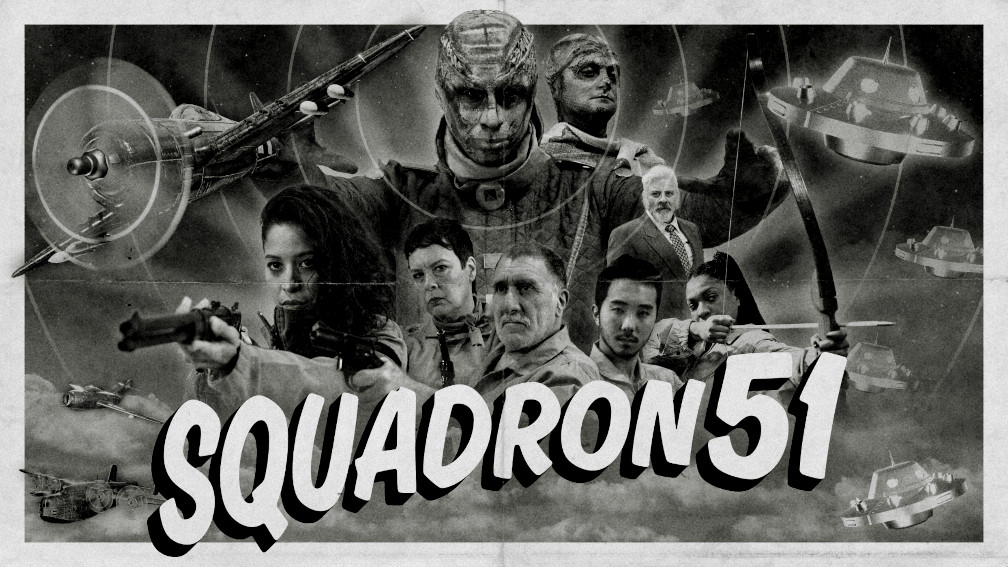
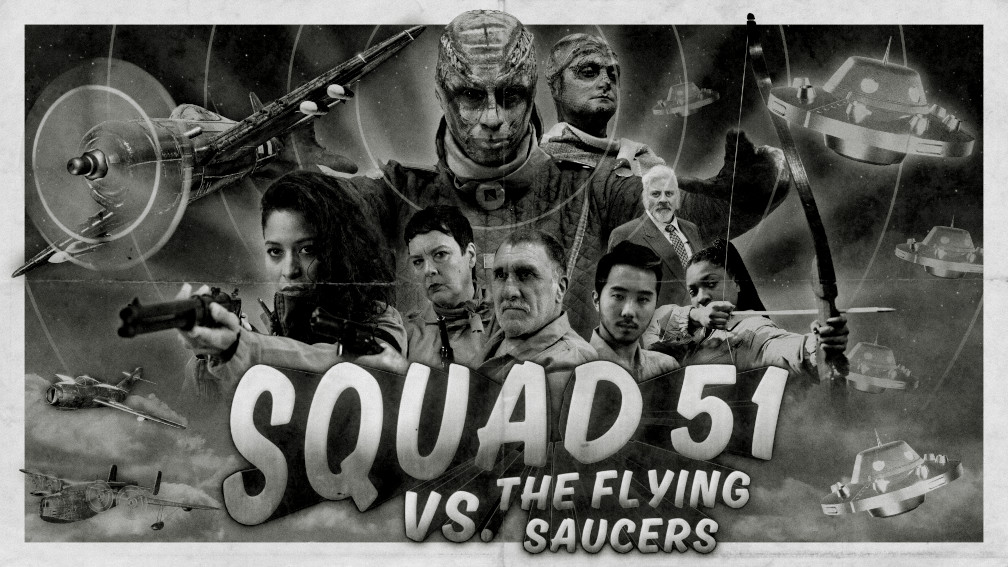
Updated game title.

Changed region(s): [[0.0308, 0.03, 0.9841, 0.9894]]

diff --git a/index-i18n.js b/index-i18n.js
@@ -3,23 +3,23 @@ $(function() {
 	{
 		return {
 			strings: {
-				aboutLoomiartsText:"Loomiarts é um estúdio de desenvolvimento de jogos. Em parceria com a Fehorama Filmes, estamos desenvolvendo o nosso primeiro projeto: o ESQUADRÃO 51, um shoot'em up com estética de filmes de ficção científica dos anos 50 que será publicado em breve pela WhisperGames e Assemble Entertainment.",
-				squadron51Title:"ESQUADRÃO 51",
+				aboutLoomiartsText:"Loomiarts é um estúdio de desenvolvimento de jogos. Em parceria com a Fehorama Filmes, estamos desenvolvendo o nosso primeiro projeto: o ESQUADRÃO 51 CONTRA DOS DISCOS VOADORES, um shoot'em up com estética de filmes de ficção científica dos anos 50 que será publicado em breve pela WhisperGames e Assemble Entertainment.",
+				squadron51Title:"ESQUADRÃO 51 CONTRA DOS DISCOS VOADORES",
 				squadron51ComingSoon:"Em breve",
-				squadron51Text:"Esquadrão 51 é um shoot'em up para PC e consoles com estética de filmes de ficção científica dos anos 50.\n\nDesenvolvido por Loomiarts e Fehorama Filmes e publicado por WhisperGames e Assemble Entertainment.\n\nEm breve para PC, Xbox One, PlayStation 4 e Nintendo Switch.",
+				squadron51Text:"Esquadrão 51 Contra dos Discos Voadores é um shoot'em up para PC e consoles com estética de filmes de ficção científica dos anos 50.\n\nDesenvolvido por Loomiarts e Fehorama Filmes e publicado por WhisperGames e Assemble Entertainment.\n\nEm breve para PC, Xbox One, PlayStation 4 e Nintendo Switch.",
 				contactHeadlineText:"CONTATO",
 				contactEmailText:"Para entrar em contato com a Loomiarts, envie um e-mail para:",
 				contactEmail:"contato@loomiarts.com",
-				downloadPresskitText:"Clique no botão abaixo para acessar o press kit do jogo Esquadrão 51:",
+				downloadPresskitText:"Clique no botão abaixo para acessar o press kit do jogo Esquadrão 51 Contra dos Discos Voadores:",
 				contactFacebookText:"Curta as nossas páginas no Facebook:",
-				contactSquadron51FacebookButton:"Esquadrão 51",
+				contactSquadron51FacebookButton:"Esquadrão 51...",
 				contactTwitterText:"Siga a Loomiarts no Twitter:",
 				contactYoutubeText:"Inscreva-se no canal do Youtube da Loomiarts:"
 			},
 			images: {
 				squadron51BannerImage: {
 					src:"Images/BannerSitePT.jpg",
-					alt:"Esquadrão 51: clique para acessar a página"
+					alt:"Esquadrão 51 Contra dos Discos Voadores: clique para acessar a página"
 				}
 			}
 		};
@@ -29,23 +29,23 @@ $(function() {
 	{
 		return {
 			strings: {
-				aboutLoomiartsText:"Loomiarts is a game studio. In partnership with Fehorama Filmes, we are currently developing our first project: SQUADRON 51, a shoot'em up with aesthetics directly inspired by sci-fi movies from the fifties which will be published soon by WhisperGames and Assemble Entertainment.",
-				squadron51Title:"SQUADRON 51",
+				aboutLoomiartsText:"Loomiarts is a game studio. In partnership with Fehorama Filmes, we are currently developing our first project: SQUAD 51 VS. THE FLYING SAUCERS, a shoot'em up with aesthetics directly inspired by sci-fi movies from the fifties which will be published soon by WhisperGames and Assemble Entertainment.",
+				squadron51Title:"SQUAD 51 VS. THE FLYING SAUCERS",
 				squadron51ComingSoon:"Coming soon",
-				squadron51Text:"Squadron 51 is a shoot'em up for PC and consoles with aesthetics directly inspired by sci-fi movies from the fifties.\n\nDeveloped by Loomiarts and Fehorama Filmes and published by WhisperGames and Assemble Entertainment.\n\nComing soon for PC, Xbox One, PlayStation 4 and Nintendo Switch.",
+				squadron51Text:"Squad 51 vs. the Flying Saucers is a shoot'em up for PC and consoles with aesthetics directly inspired by sci-fi movies from the fifties.\n\nDeveloped by Loomiarts and Fehorama Filmes and published by WhisperGames and Assemble Entertainment.\n\nComing soon for PC, Xbox One, PlayStation 4 and Nintendo Switch.",
 				contactHeadlineText:"CONTACT",
 				contactEmailText:"To get in touch with Loomiarts, please send an e-mail to:",
 				contactEmail:"contact@loomiarts.com",
-				downloadPresskitText:"Click the button below to access the Squadron 51 press kit:",
+				downloadPresskitText:"Click the button below to access the Squad 51 vs. the Flying Saucers press kit:",
 				contactFacebookText:"Follow our pages on Facebook:",
-				contactSquadron51FacebookButton:"Squadron 51",
+				contactSquadron51FacebookButton:"Squad 51...",
 				contactTwitterText:"Follow Loomiarts on Twitter:",
 				contactYoutubeText:"Subscribe to Loomiarts Youtube channel:"
 			},
 			images: {
 				squadron51BannerImage: {
 					src:"Images/BannerSiteEN.jpg",
-					alt:"Squadron 51: click to access the page"
+					alt:"Squad 51 vs. the Flying Saucers: click to access the page"
 				}
 			}
 		};

diff --git a/common-i18n.js b/common-i18n.js
@@ -5,7 +5,7 @@ $(function() {
 			strings: {
 				menuItemHomeText:"Início",
 				menuItemGamesText:"Jogos",
-				menuItemSquadron51Text:"Esquadrão 51",
+				menuItemSquadron51Text:"Esquadrão 51 Contra os Discos Voadores",
 				menuItemContactText:"Contato",
 				menuItemPressKitText:"Press Kit",
 				footerEmail:"E-mail: contato@loomiarts.com",
@@ -21,7 +21,7 @@ $(function() {
 			strings: {
 				menuItemHomeText:"Home",
 				menuItemGamesText:"Games",
-				menuItemSquadron51Text:"Squadron 51",
+				menuItemSquadron51Text:"Squad 51 vs. the Flying Saucers",
 				menuItemContactText:"Contact",
 				menuItemPressKitText:"Press Kit",
 				footerEmail:"E-mail: contact@loomiarts.com",
